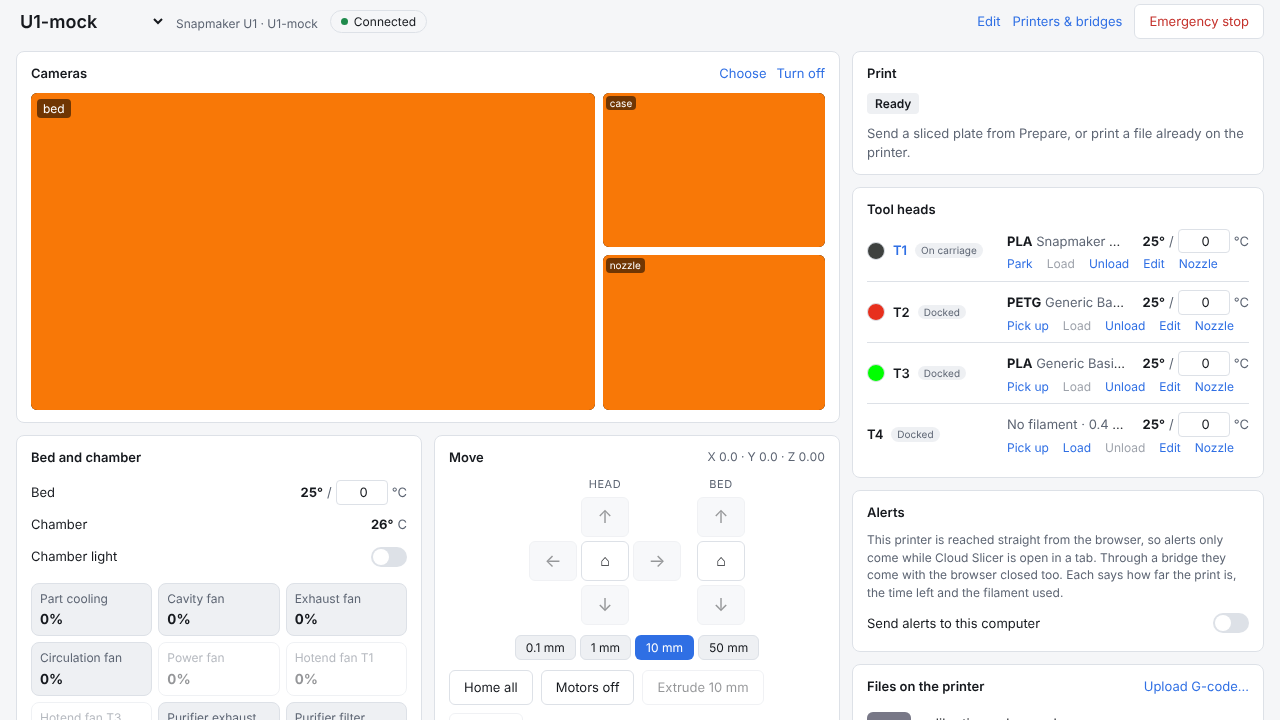
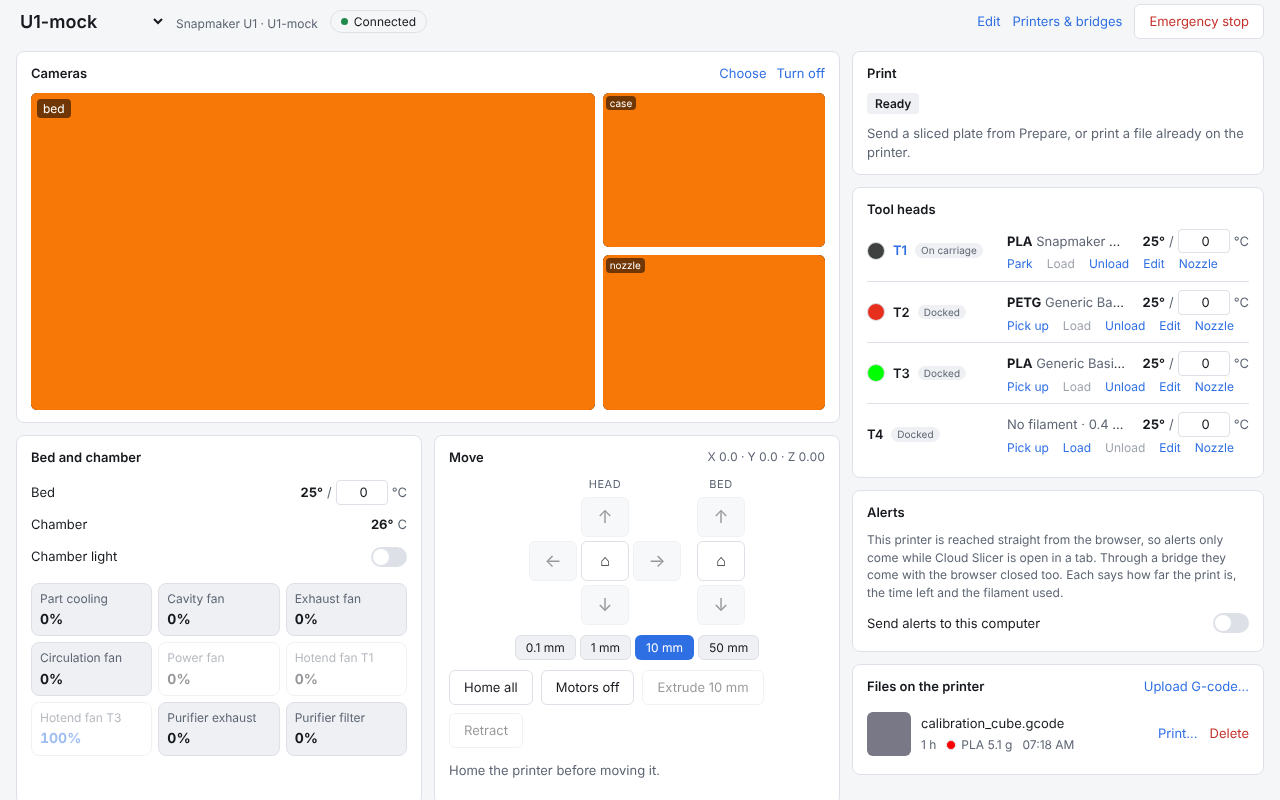
Device: two cameras side by side, four or more = big on top with a row under it (desktop)
Three cameras keep one big with two small beside it. Phones keep one big with
the rest in a column. Smoke test checks two cameras sit side by side.

Claude-Session: https://claude.ai/code/session_012FZgERbs83JH6pfhRVY3Xt

diff --git a/apps/web/src/styles.css b/apps/web/src/styles.css
@@ -2743,6 +2743,40 @@ select:focus-visible {
 .dv-cameras-many .dv-camera:not(.dv-camera-main) .dv-camera-note {
   display: none;
 }
+/* Desktop has room: two cameras side by side; four or more = one big on top, the rest in a row under it. */
+@media (min-width: 761px) {
+  .dv-cameras-many.dv-cameras-pair {
+    grid-template-columns: repeat(2, minmax(0, 1fr));
+    grid-template-rows: none;
+  }
+  .dv-cameras-many.dv-cameras-row {
+    grid-template-columns: repeat(var(--small-cameras), minmax(0, 1fr));
+    grid-template-rows: none;
+  }
+  .dv-cameras-pair .dv-camera-main {
+    grid-column: auto;
+    grid-row: auto;
+  }
+  .dv-cameras-pair .dv-camera:not(.dv-camera-main),
+  .dv-cameras-row .dv-camera:not(.dv-camera-main) {
+    grid-column: auto;
+    contain: none;
+    aspect-ratio: var(--aspect) !important;
+  }
+  .dv-cameras-row .dv-camera-main {
+    grid-column: 1 / -1;
+    grid-row: auto;
+  }
+  .dv-cameras-pair .dv-camera:not(.dv-camera-main) figcaption {
+    font-size: 12px;
+    left: 6px;
+    top: 6px;
+    padding: 1px 6px;
+  }
+  .dv-cameras-pair .dv-camera:not(.dv-camera-main) .dv-camera-note {
+    display: block;
+  }
+}
 .dv-camera {
   position: relative;
   margin: 0;

diff --git a/apps/web/src/device/ui/CameraCard.tsx b/apps/web/src/device/ui/CameraCard.tsx
@@ -127,7 +127,8 @@ export function CameraCard() {
           </span>
         </div>
       ) : (
-        <div className={`dv-cameras${shown.length > 1 ? ' dv-cameras-many' : ''}`} style={{ '--small-cameras': Math.max(2, shown.length - 1) } as CSSProperties}>
+        <div
+          className={`dv-cameras${shown.length > 1 ? ' dv-cameras-many' : ''}${shown.length === 2 ? ' dv-cameras-pair' : shown.length > 3 ? ' dv-cameras-row' : ''}`} style={{ '--small-cameras': Math.max(2, shown.length - 1) } as CSSProperties}>
           {shown.map((cam) => (
             <CameraTile
               key={cam.id}
@@ -209,7 +210,7 @@ function CameraTile({
   return (
     <figure
       className={`dv-camera${main ? ' dv-camera-main' : ''}`}
-      style={{ aspectRatio: String(cam.aspect) }}
+      style={{ aspectRatio: String(cam.aspect), '--aspect': String(cam.aspect) } as CSSProperties}
       data-testid="camera-tile"
       data-camera={cam.name}
       data-main={main || undefined}
